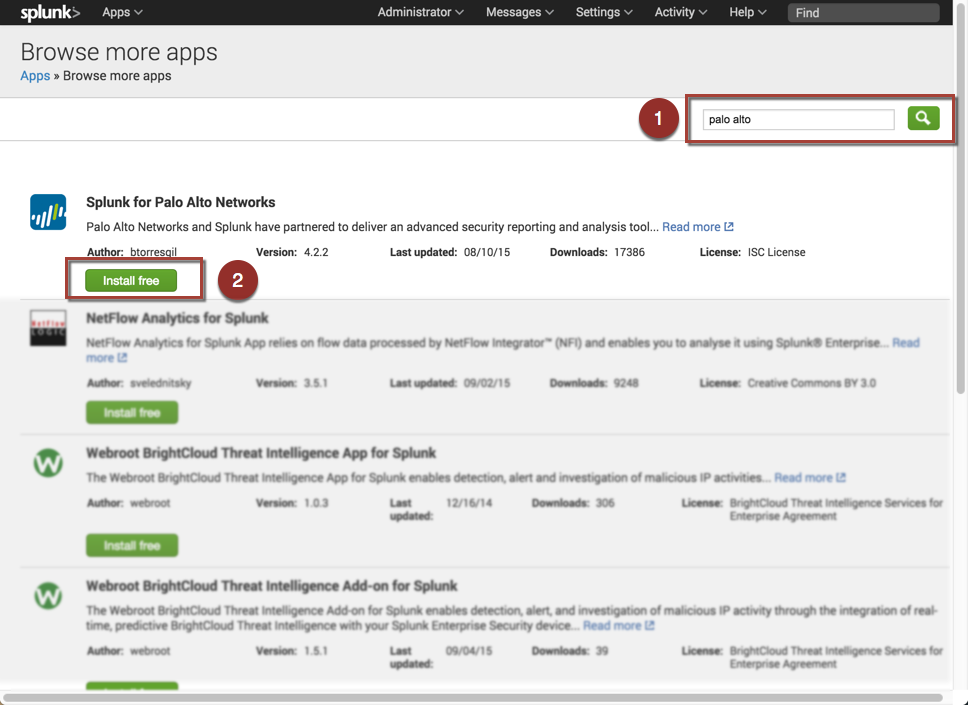
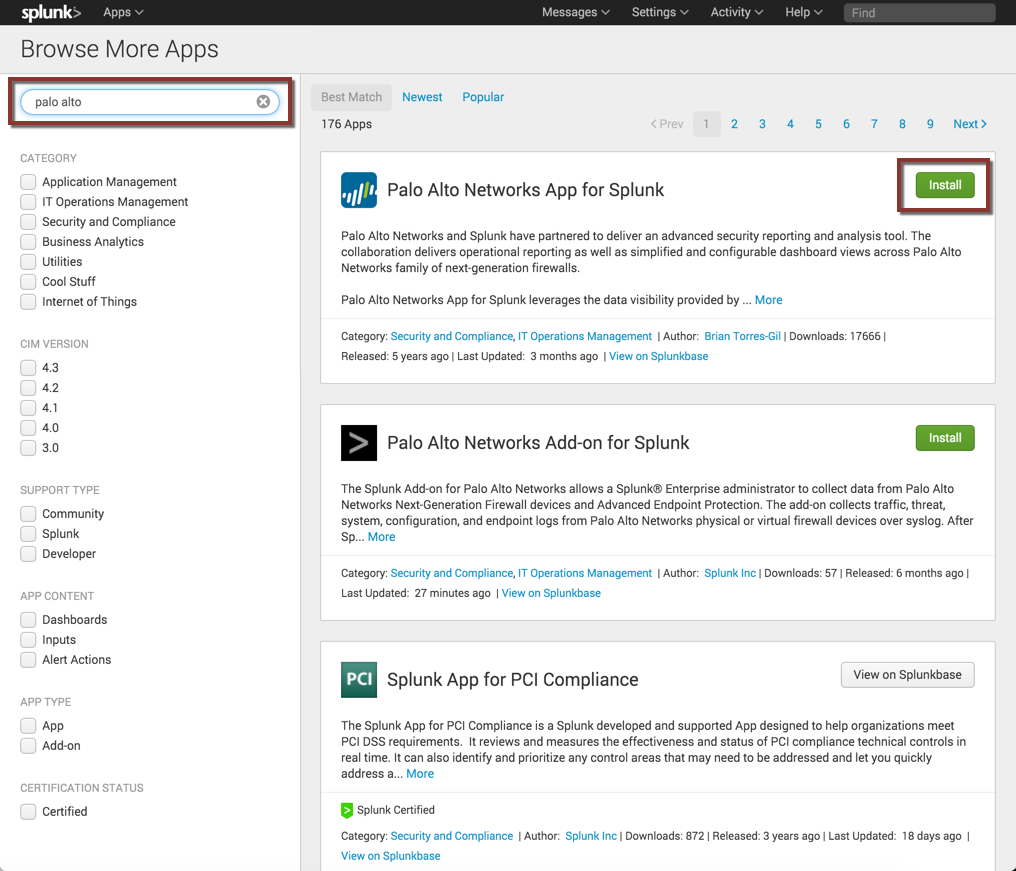
Getting Started Guide: Update App download screenshot

diff --git a/docs/getting_started.rst b/docs/getting_started.rst
@@ -36,7 +36,10 @@ This table indicates when the Add-on (TA) is necessary:
 Install the Palo Alto Networks App by downloading it from the App homepage,
 or by installing it from within Splunk.
 
-.. image:: _static/download_app.png
+.. figure:: _static/download_app.png
+
+   Downloading the App from within Splunk Enterprise. You don't need to
+   download the Add-on; it comes bundled with the App.
 
 .. note:: The Palo Alto Networks App and Add-on must be installed on all
    Searchheads, Indexers, and Heavy Forwarders.
